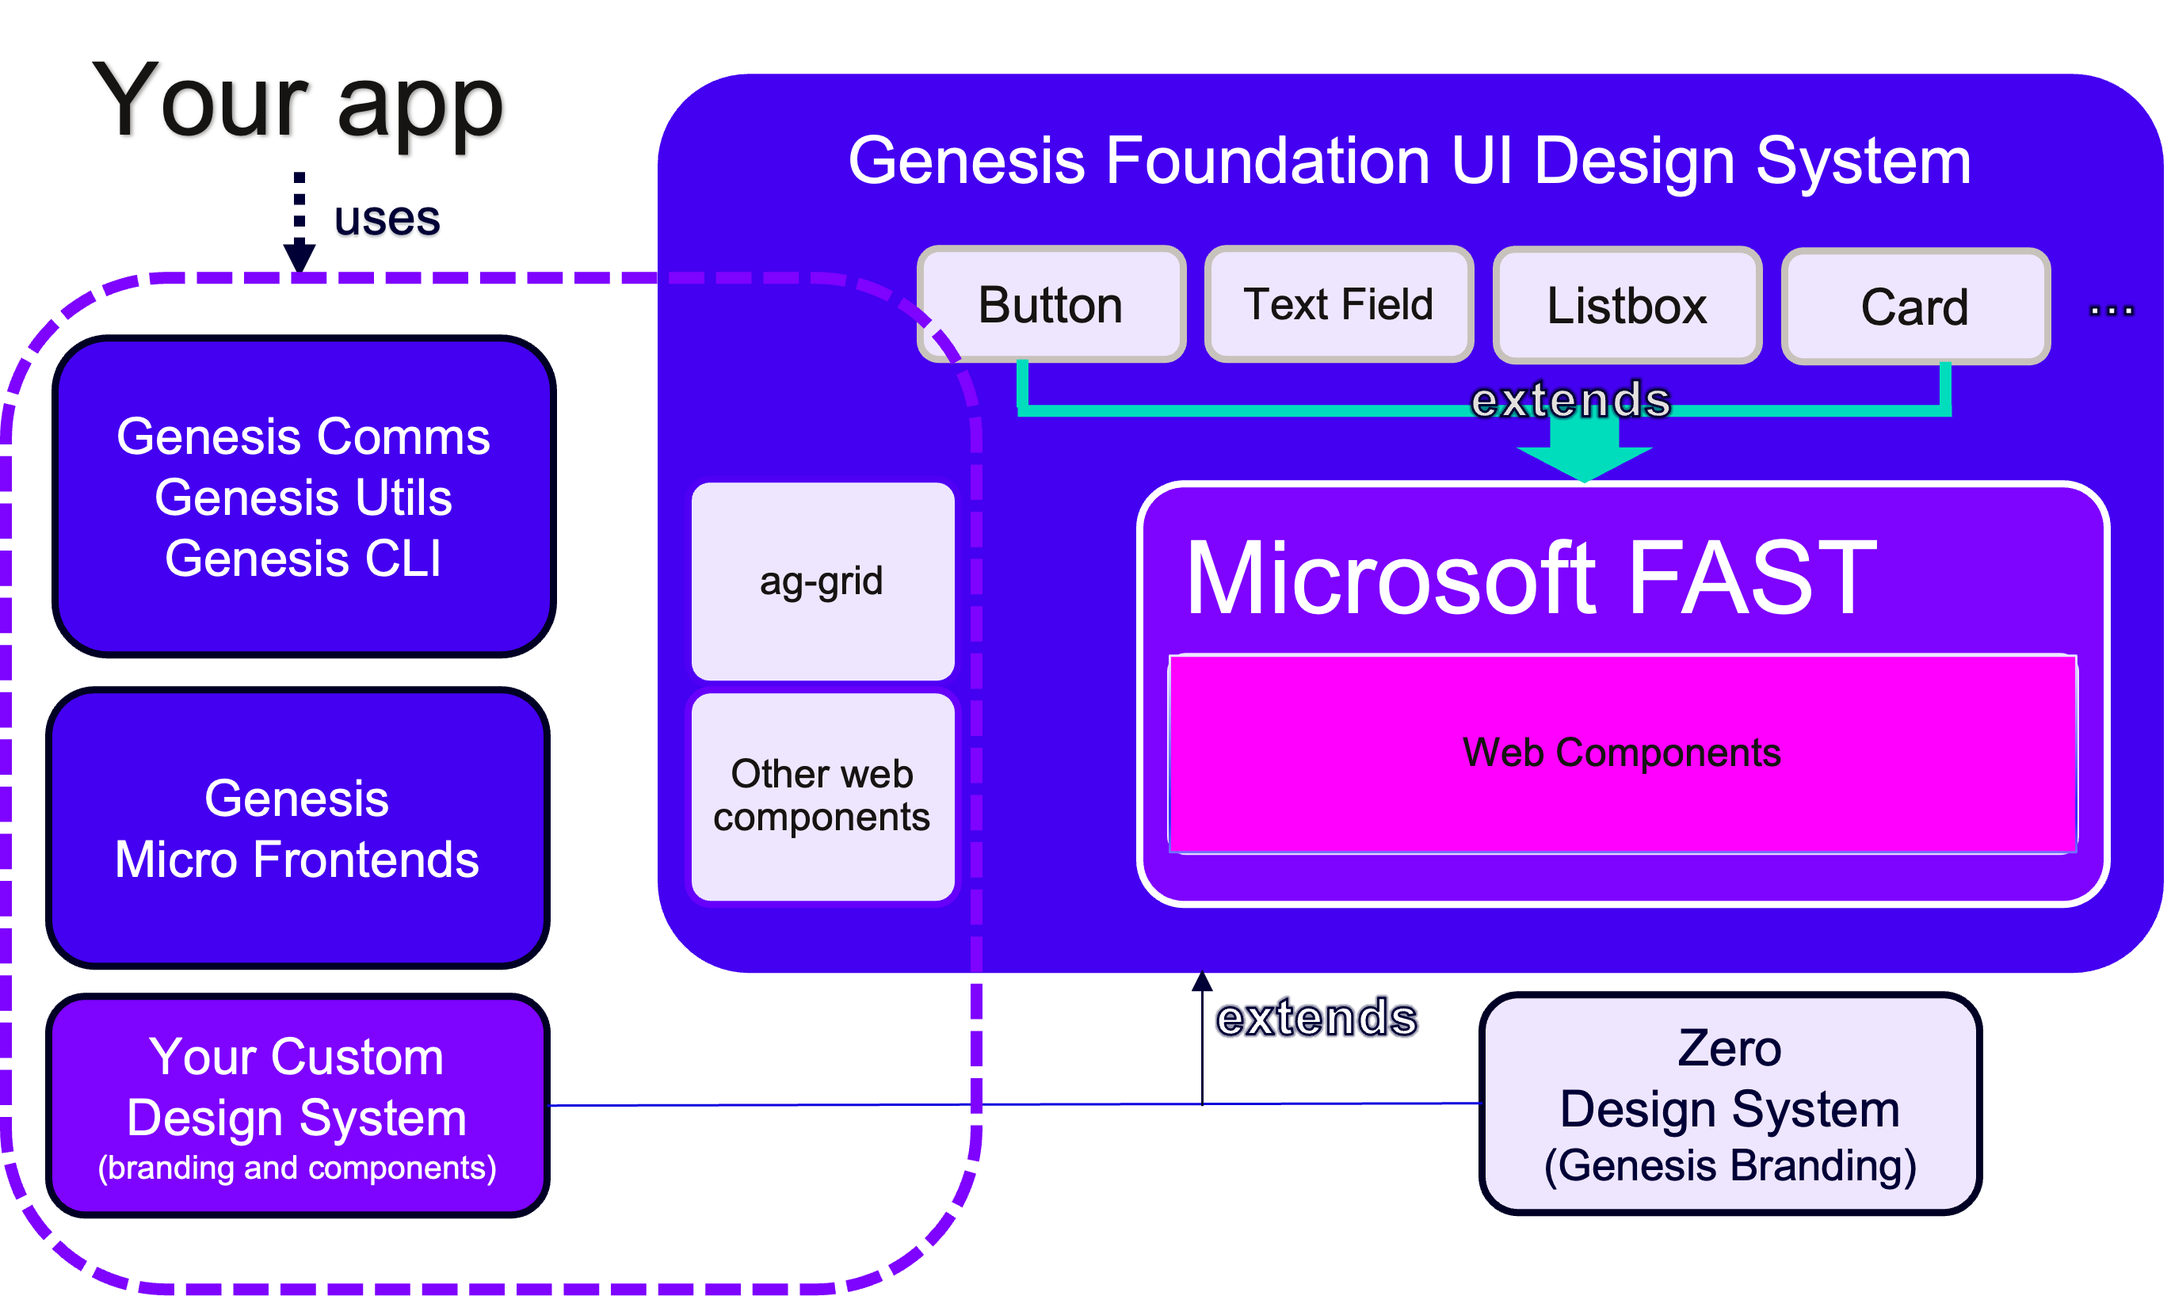
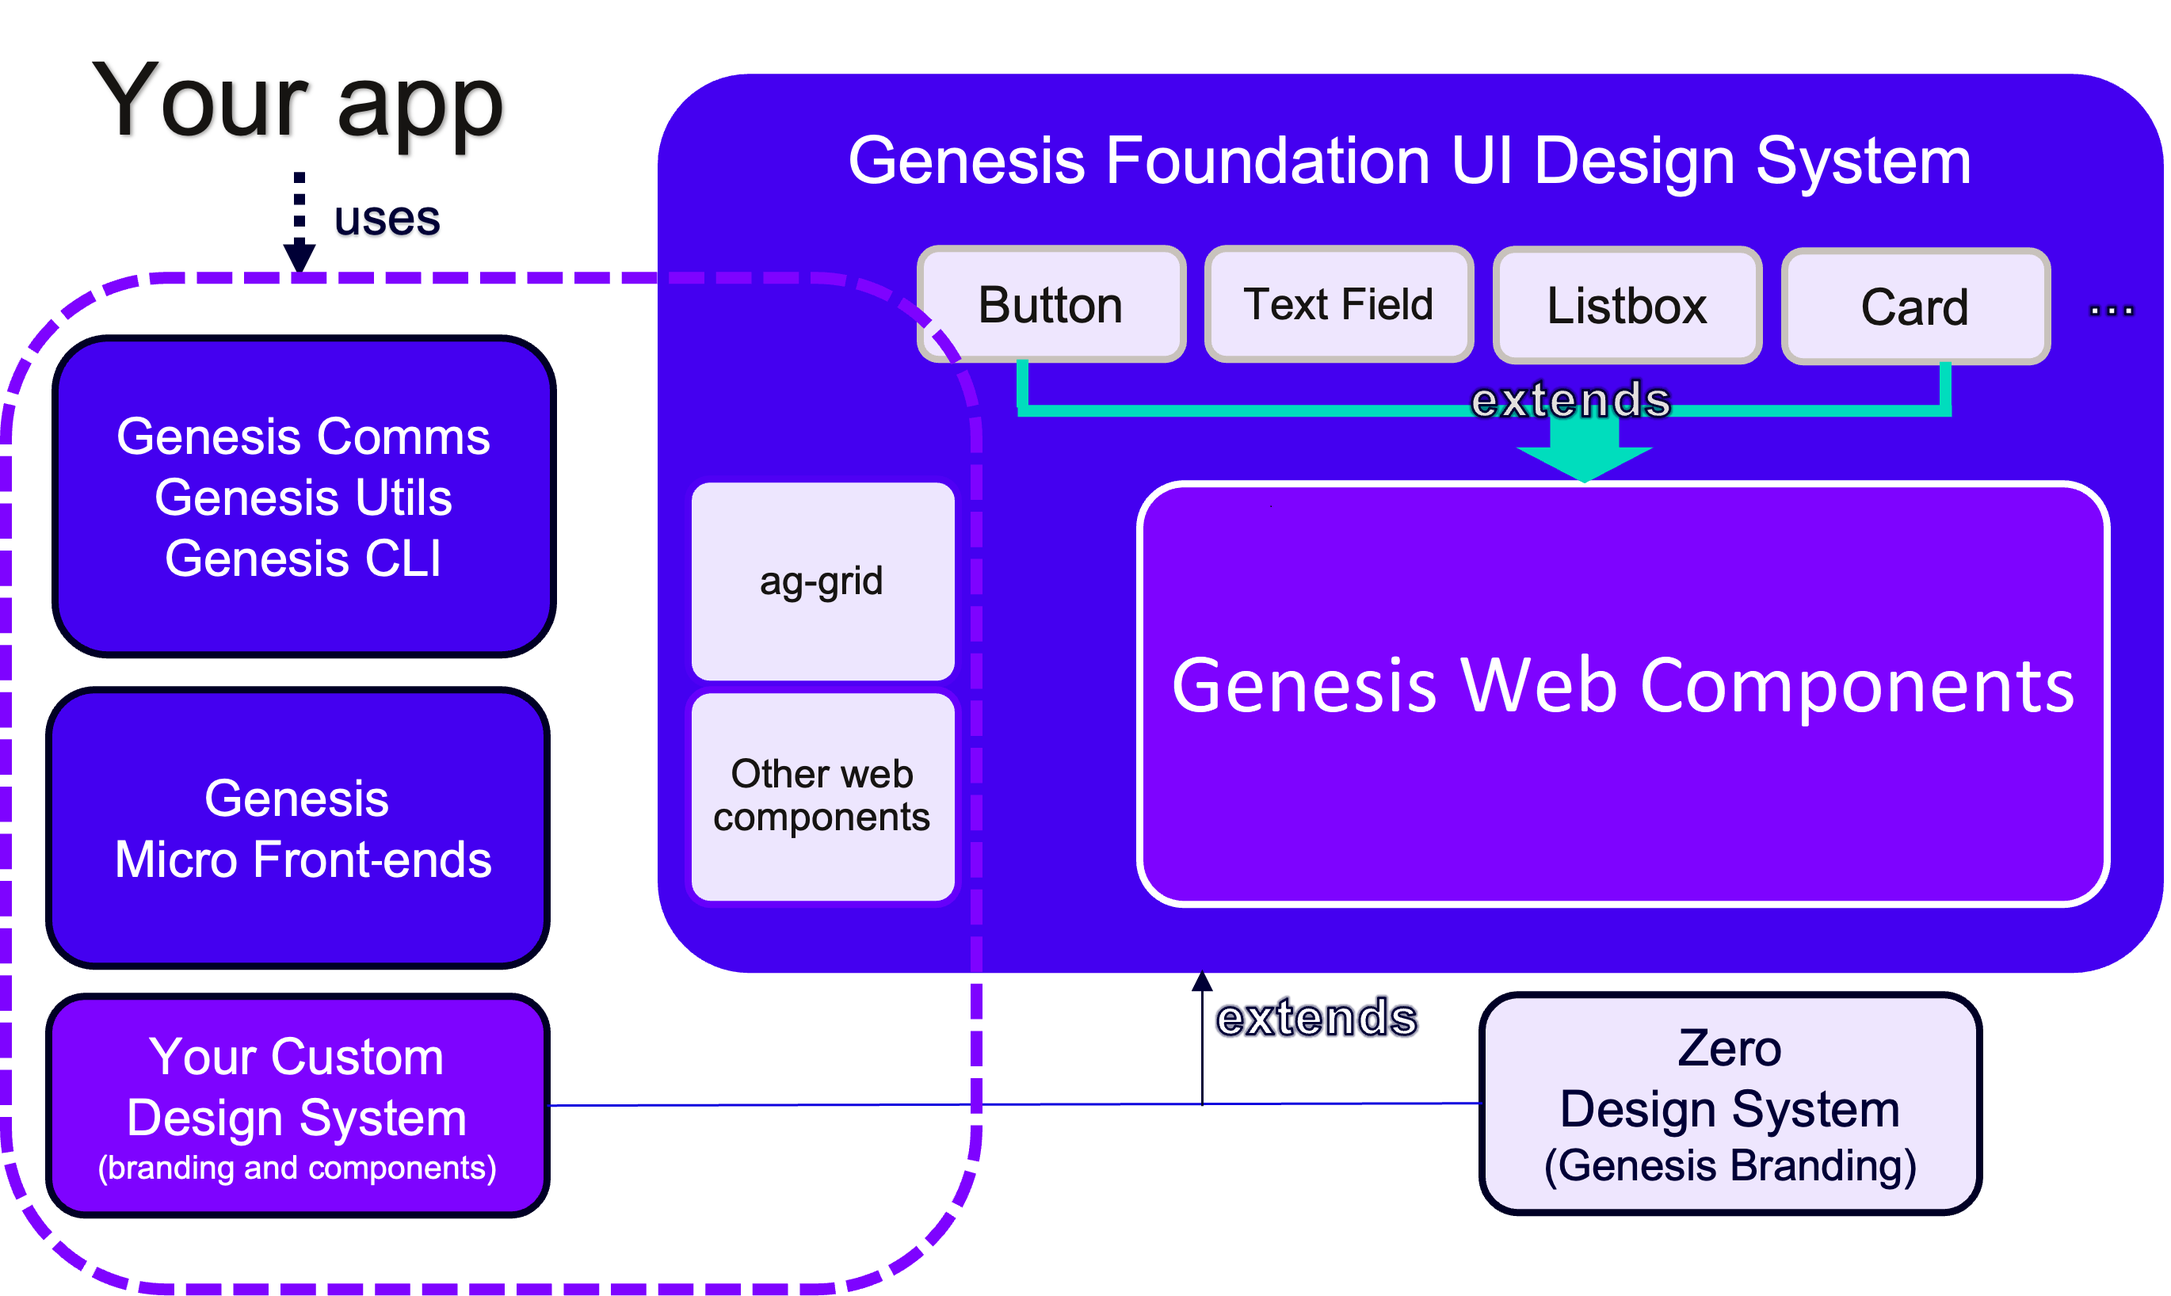
farewell, FAST

Changed region(s): [[0.5274, 0.4053, 0.9617, 0.6858], [0.1551, 0.6546, 0.2482, 0.6858]]

diff --git a/versioned_docs/version-previous/01_getting-started/10_web-training/01_web-training-day1.md b/versioned_docs/version-previous/01_getting-started/10_web-training/01_web-training-day1.md
@@ -24,9 +24,7 @@ This day covers:
 
 ## Reviewing basic concepts
 
-As introduced in the Developer Training, Genesis provides a modern future-proofed web stack on top of [Microsoft FAST](https://www.fast.design/), which is a lightweight abstraction that enables you to easily build performant, memory-efficient, standards-compliant Web Components. You can find more about Microsoft FAST and fast-foundation at its main [documentation website](https://www.fast.design/docs/introduction/), which includes an [API reference](https://www.fast.design/docs/api/fast-foundation/).
-
-Genesis also offers a highly configurable design system called Genesis Foundation UI. It is made up of a set of Web Components and accompanying design tokens. This enables you to control visual design in myriad ways using the tokens, CSS, element templates and shadow DOM options.
+The Genesis platform provides a highly configurable design system called Genesis Foundation UI. This is made up of a set of web components and accompanying design tokens. They enable you to control visual design in myriad ways using the tokens, CSS, element templates and shadow DOM options.
 
 This picture gives an overview of how it all ties together:
 
@@ -35,70 +33,6 @@ This picture gives an overview of how it all ties together:
 :::tip confused with any term used here? Revisit the Developer Training!
 Feel free to revisit the UI chapter of the [Developer Training](../../../getting-started/developer-training/training-content-day2/) before we get into other aspects of the underlying technology used by Genesis in the next sections.
 :::
-
-## Why Web Components?
-
-Remember that Web Components are custom html elements that completely encapsulate their logic to create self-contained reusable components. These components do not clash or interfere with the rest of application. Genesis offers a comprehensive set of Web Components, from simple components like a Button and Text Field, to more complex ones like Micro Front-end apps.
-
-### Performance
-
-Web Components have proven to be consistently faster than many popular JavaScript frameworks when it comes to both
-startup time and paint performance. They also use less memory and often result in significantly smaller bundle sizes
-when compared to their JavaScript counterparts. Standard benchmarks show our component implementation outperforming
-React, Angular 12, Vue 3.2 as well as many others.
-
-### Interoperability
-
-Every Web Component inherits from HTMLElement. So, Web Components seamlessly interoperate with any library or framework
-designed to work with DOM. This includes modern frameworks like React, Angular, Vue, etc. but also libraries like jQuery
-and others. Adopting Web Components enables use of a consistent component library across a diverse set of applications.
-So, teams can standardise on the components and design system without having to force a specific architecture or
-framework on the application developer.
-
-### Incremental adoption
-
-You do not have to re-write an existing app or site to take advantage of Web Components. Since Web Components just
-extend the palette of available HTML elements, you can choose to simply start leveraging whatever custom elements you
-want within your existing app the same way as you use built-in elements.
-
-### Future-proof
-
-Web Components are _literally_, the standard component model of the web, written into the HTML specification. The base
-features have shipped in every modern browser and many new features are planned for the DOM and CSS standards. Some of
-these new HTML capabilities will only be available to Web Components, so continuing down the path of non-standard
-component models will prevent you from taking advantage of platform improvements. Aligning yourself with Web Components
-and other standards will enable you to get the greatest benefit from the evolving web platform.
-
-### Extensible ecosystems and plugin models
-
-By choosing Web Components, you enable your customers to choose their preferred application framework or library, rather
-than forcing them to use any particular JavaScript framework. Building your ecosystem or plugin model around one
-framework often means the exclusion of an entire set of customers who build on another.
-
-### You no longer need JavaScript framework experts
-
-Most of the popular JavaScript frameworks require strong JavaScript skills and knowledge and often at least an
-intermediate proficiency for use. Web Components can be used without any knowledge of JavaScript whatsoever. Building
-around Web Components opens up opportunities for a broader range of customers with more diverse backgrounds.
-
-### Who is using Web Components?
-
-Across the industry we see a pretty big adoption since January 2020. This includes not only heavy investment from
-**Microsoft**, but also from **Google**, **Adobe**, **Salesforce**, **SAP**, **MIT**, **SpaceX**, and many more.
-Curious who else is using Web Components? Check out the ever-growing [list of companies](https://arewebcomponentsathingyet.com/).
-
-### And why Microsoft FAST?
-
-Genesis basic Web Components, such as Button and Text Fields, were not created from scratch. They extend Microsoft FAST components for a number of reasons:
-
-- FAST is a collection of technologies built on Web Components and modern Web Standards.
-- Proven at scale in production. FAST powers Edge, Bing, Maps, Ads, News and other web products at Microsoft. As such, it will power all their next gen web components and design-system technologies.
-- Provides a comprehensive and growing component set out of the box, built directly on the W3C Web Component standards with accessibility built in.
-- Extensible and highly efficient base element to build Genesis domain specific components.
-- Uses [Constructable Stylesheet Objects](https://wicg.github.io/construct-stylesheets/) to efficiently re-use CSS across components.
-- Advanced design-system architecture to support custom theming between clients and applications.
-- Offers a DI system, a Router and other opt-in utilities.
-- Highly active and responsive community.
 
 ## A deeper dive into the alpha web application structure
 

diff --git a/versioned_docs/version-previous/04_web/10_dynamic-layout/10_foundation-layout.md b/versioned_docs/version-previous/04_web/10_dynamic-layout/10_foundation-layout.md
@@ -282,10 +282,6 @@ To enable you to add multiple items from the same `registration`, the layout sys
 This is the case both when items are added with `.addItem()`, and when they are added using the declarative API. Under the hood, this uses the Node [cloneNode](https://developer.mozilla.org/en-US/docs/Web/API/Node/cloneNode) api.
 There are certain limitations to this function, especially when using custom elements with the shadow DOM. [See troubleshooting example](#binding-events-inline-in-the-declarative-api).
 
-:::tip
-As a general rule, if you need to have elements with FAST bindings inside of the layout, wrap them in custom elements.
-:::
-
 If you are writing your own custom element which needs to work inside of the layout follow these steps.
 In the `@genesislcap/foundation-utils` package, there is a mix-in class `LifecycleMixin` which overrides the `cloneNode` API.
 
@@ -454,7 +450,7 @@ Component 1 has a Close button. Component 1 takes up 25% of the initial width. C
 
 ### `repeat` directive
 
-You can use [FAST template directives](https://www.fast.design/docs/fast-element/using-directives) such as `repeat`
+You can use template directives such as `repeat`:
 
 ```javascript
 interface Position {
@@ -599,9 +595,9 @@ Say you want the user to be able to choose between three different types of item
 ```typescript
 // Can either create an element and initialise it completely using JavaScript
 const profileManagement = document.createElement('profile-management');
-// Or could grab a reference to one you create via FAST markup
+// Or could grab a reference to one you create via markup
 const pieChart = document.getElementById('pie-chart');
-// In idiomatic FAST we can have a reference using `ref` directive
+// We can have a reference using `ref` directive
 // const colChart = this.columnChart;
 ```
 
@@ -961,7 +957,7 @@ But as the user clicks the toggle button, the `Index Chart` will not be taken aw
 Instead, it will be added as a duplicate every time the observable is set true. Additionally, the contents
 of the panel will be wiped as duplicates are added.
 
-To work around this, you would use FAST directives inside custom web components inside the layout.
+To work around this, you would use directives inside custom web components inside the layout.
 
 ### Binding events inline in the declarative API
 The following example is invalid:
@@ -978,7 +974,7 @@ Because of a limitation in the [cloneNode() API](https://developer.mozilla.org/e
 This process is part of the process of adding an item to the layout, using both the declarative HTML and JavaScript APIs. So while you will see
 a checkbox on the screen as part of the layout, the event listener will *not* fire when you `change` the checkbox. This applies to all items and events.
 
-The idiomatic FAST way of implementing this event binding is to create a custom element and attach the event internally.
+The idiomatic way of implementing this event binding is to create a custom element and attach the event internally.
 
 ```typescript
 // template

diff --git a/versioned_docs/version-previous/04_web/03_design-systems/05_tokens/04_miscellaneous.md b/versioned_docs/version-previous/04_web/03_design-systems/05_tokens/04_miscellaneous.md
@@ -38,7 +38,7 @@ You will then be able to use your component in HTML as `<custom-button>`.
 
 ### direction
 
-The primary document direction (LTR or RTL). Many CSS layout properties like [flexbox](https://developer.mozilla.org/en-US/docs/Web/CSS/CSS_Flexible_Box_Layout/Basic_Concepts_of_Flexbox) and [CSS grid](https://developer.mozilla.org/en-US/docs/Web/CSS/CSS_Grid_Layout/Basic_Concepts_of_Grid_Layout) automatically handle reflow depending on the [document's primary direction](https://www.w3.org/International/questions/qa-html-dir). There are also CSS [logical properties](https://developer.mozilla.org/en-US/docs/Web/CSS/CSS_Logical_Properties/Basic_concepts) that can be used as well to apply localized margins, paddings, borders and positioning. Unfortunately, browser support for these properties is limited and there are still styling cases not covered by these properties (directional glyphs, transforms, etc). That is why FAST provides several mechanisms to apply direction-based styles.
+The primary document direction (LTR or RTL). Many CSS layout properties like [flexbox](https://developer.mozilla.org/en-US/docs/Web/CSS/CSS_Flexible_Box_Layout/Basic_Concepts_of_Flexbox) and [CSS grid](https://developer.mozilla.org/en-US/docs/Web/CSS/CSS_Grid_Layout/Basic_Concepts_of_Grid_Layout) automatically handle reflow depending on the [document's primary direction](https://www.w3.org/International/questions/qa-html-dir). There are also CSS [logical properties](https://developer.mozilla.org/en-US/docs/Web/CSS/CSS_Logical_Properties/Basic_concepts) that can be used as well to apply localized margins, paddings, borders and positioning. Unfortunately, browser support for these properties is limited and there are still styling cases not covered by these properties (directional glyphs, transforms, etc). That is why the platform provides several mechanisms to apply direction-based styles.
 
 #### Usage
 

diff --git a/versioned_docs/version-previous/04_web/04_integrations/03_react.md b/versioned_docs/version-previous/04_web/04_integrations/03_react.md
@@ -120,7 +120,7 @@ Decorators are an upcoming feature planned for a future version of JavaScript, b
 
 While there are size implications of using decorators prior to full language support, they do present the most declarative and readable form of the API, and we recommend their use for the average project. To strike a balance between declarative readability and size, we recommend that TypeScript be used in combination with the `"importHelpers": true` compiler option. When this option is set, instead of generating helper functions for decorators into every file, TypeScript will import a set of shared helpers published in the `tslib` package.
 
-For those who require the smallest possible builds, FAST Elements can be completely defined in Vanilla JS, without using decorators; to do this, use a static `definition` field on your class. The `definition` field only needs to present the same configuration as the `@customElement` decorator. 
+For those who require the smallest possible builds, Genesis elements can be completely defined in Vanilla JS, without using decorators; to do this, use a static `definition` field on your class. The `definition` field only needs to present the same configuration as the `@customElement` decorator. 
 
 Here's an example that shows the use of the `definition` field along with a manual call to `define` the element:
 

diff --git a/versioned_docs/version-previous/01_getting-started/01_learn-the-basics/08_Components/01_ui-components.md b/versioned_docs/version-previous/01_getting-started/01_learn-the-basics/08_Components/01_ui-components.md
@@ -11,11 +11,7 @@ tags:
     - ui
 ---
 
-To give your front end a wide range of visual possibilities, the Genesis low-code platform provides a wide range of [Web Components](https://developer.mozilla.org/en-US/docs/Web/Web_Components). These are built on top of [Microsoft FAST](https://www.fast.design/docs/introduction/). 
-
-This eliminates a number of problems, such as deciding between Angular, React & Vue, dealing with version clashes & upgrades, or needing to onboard web-framework specialists.
-
-You can use these Web Components to create clear and usable interfaces quickly.
+To give your front end a wide range of visual possibilities, the Genesis low-code platform provides a wide range of Genesis web components. You can use these to create clear and usable interfaces quickly.
 
 | Name                                                                                         | Category      | Description                                                                                                                                                 |
 |----------------------------------------------------------------------------------------------|---------------|-------------------------------------------------------------------------------------------------------------------------------------------------------------|

diff --git a/versioned_docs/version-previous/04_web/05_micro-front-ends/03_foundation-header/03_foundation-header.md b/versioned_docs/version-previous/04_web/05_micro-front-ends/03_foundation-header/03_foundation-header.md
@@ -92,7 +92,7 @@ export class MainApplication extends FASTElement {
 If you haven't used the `inject` annotation in your application yet, you'll need to get it from the `@microsoft/fast-foundation` package.
 :::
 
-3. Set a reference to the `navigation` object on the FAST router when you instantiate it; this enables you to set up navigation functionality from the navigation bar in the [navigation items step](#navigation-items).
+3. Set a reference to the `navigation` object on the Genesis router when you instantiate it; this enables you to set up navigation functionality from the navigation bar in the [navigation items step](#navigation-items).
 ```javascript
 // fast-router will likely have other attributes such as :config too
 const MainTemplate: ViewTemplate<MainApplication> = html`

diff --git a/versioned_docs/version-previous/01_getting-started/06_developer-training/0a_fundaments.md b/versioned_docs/version-previous/01_getting-started/06_developer-training/0a_fundaments.md
@@ -360,7 +360,7 @@ Genesis supports a wide range of third-party integrations. Some of these are lis
 ### Data model configuration
 
 - built for the financial markets
-- based on Web Components (Microsoft FAST) for performance and accessibility
+- based on Genesis web components for performance and accessibility
 - composed into micro front-ends
 
 Web Components allow us to provide reusable building blocks and app functionality that works seamlessly with today’s popular web frameworks - and any that might become popular in the future.

diff --git a/docs/04_web/05_micro-front-ends/02_foundation-header/docs/api/foundation-header.navigation.navigateto.md b/docs/04_web/05_micro-front-ends/02_foundation-header/docs/api/foundation-header.navigation.navigateto.md
@@ -27,5 +27,5 @@ void
 
 ## Remarks
 
-Requires setup of the Router and usage of the FAST Router
+Requires setup of the Router and usage of the Genesis Router
 

diff --git a/versioned_docs/version-previous/04_web/05_micro-front-ends/03_foundation-header/docs/api/foundation-header.navigation.navigateto.md b/versioned_docs/version-previous/04_web/05_micro-front-ends/03_foundation-header/docs/api/foundation-header.navigation.navigateto.md
@@ -24,5 +24,5 @@ void
 
 ## Remarks
 
-Requires setup of the Router and usage of the FAST Router
+Requires setup of the Router and usage of the Genesis Router
 
